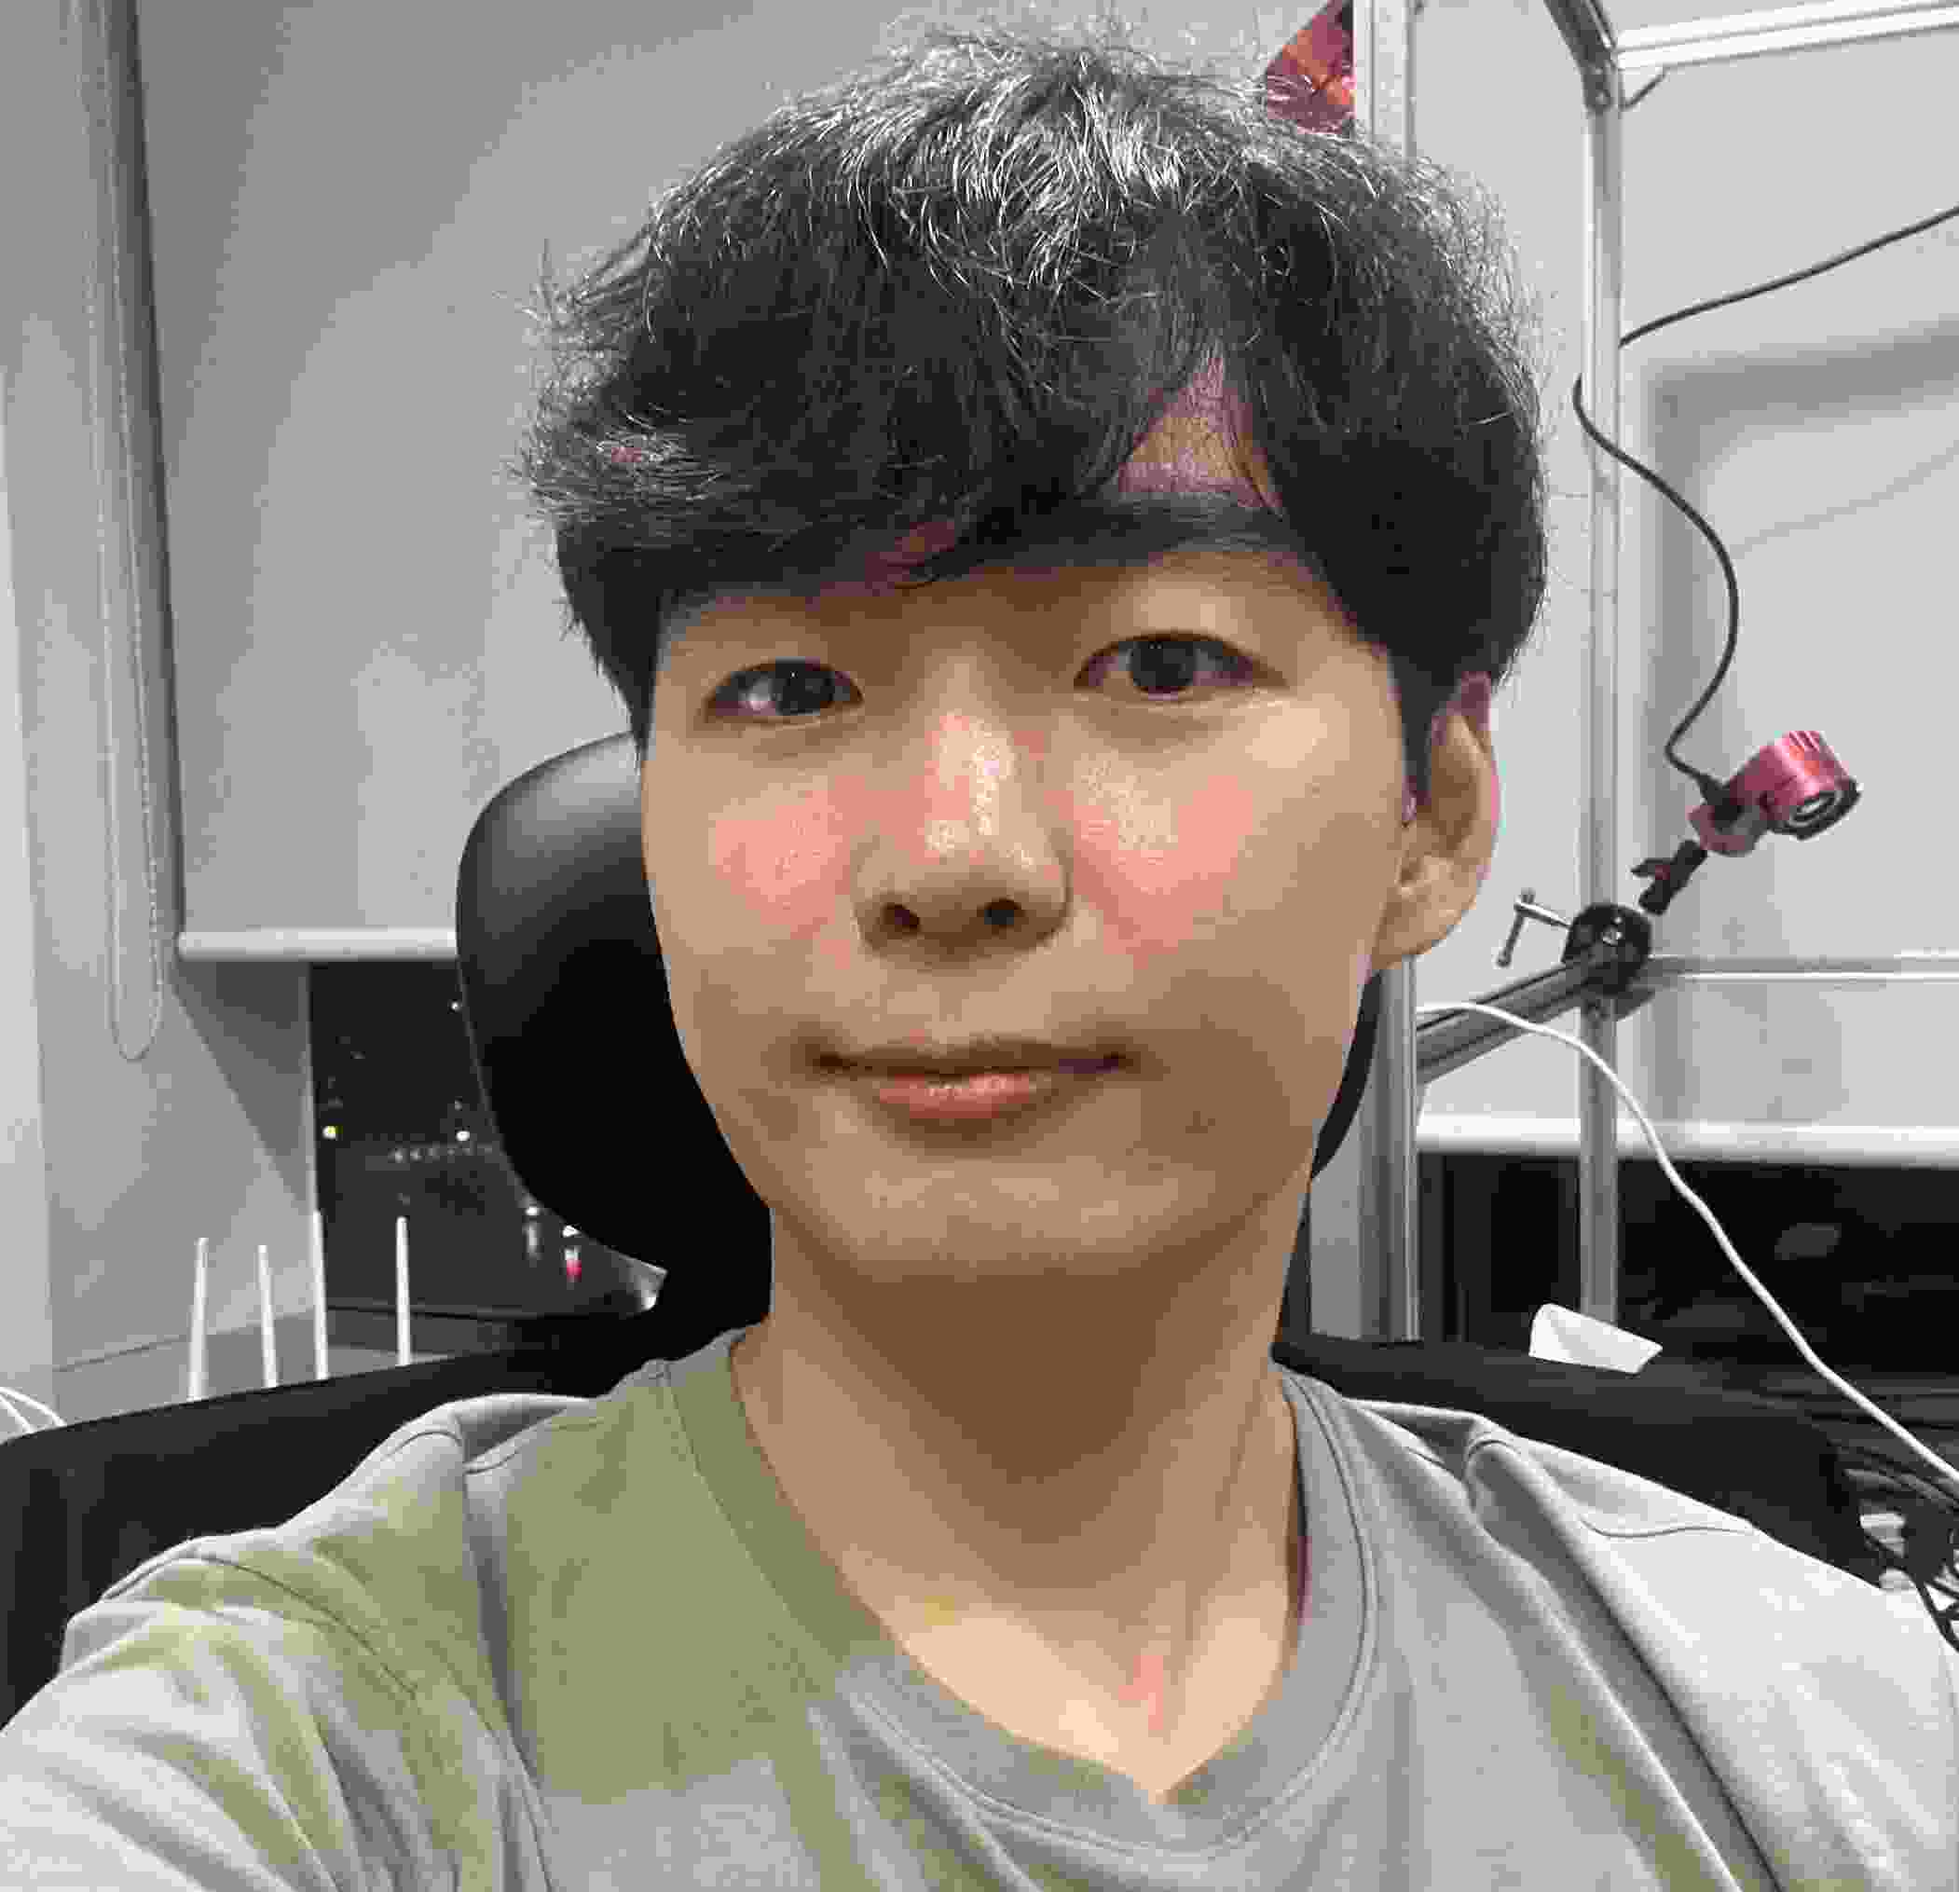
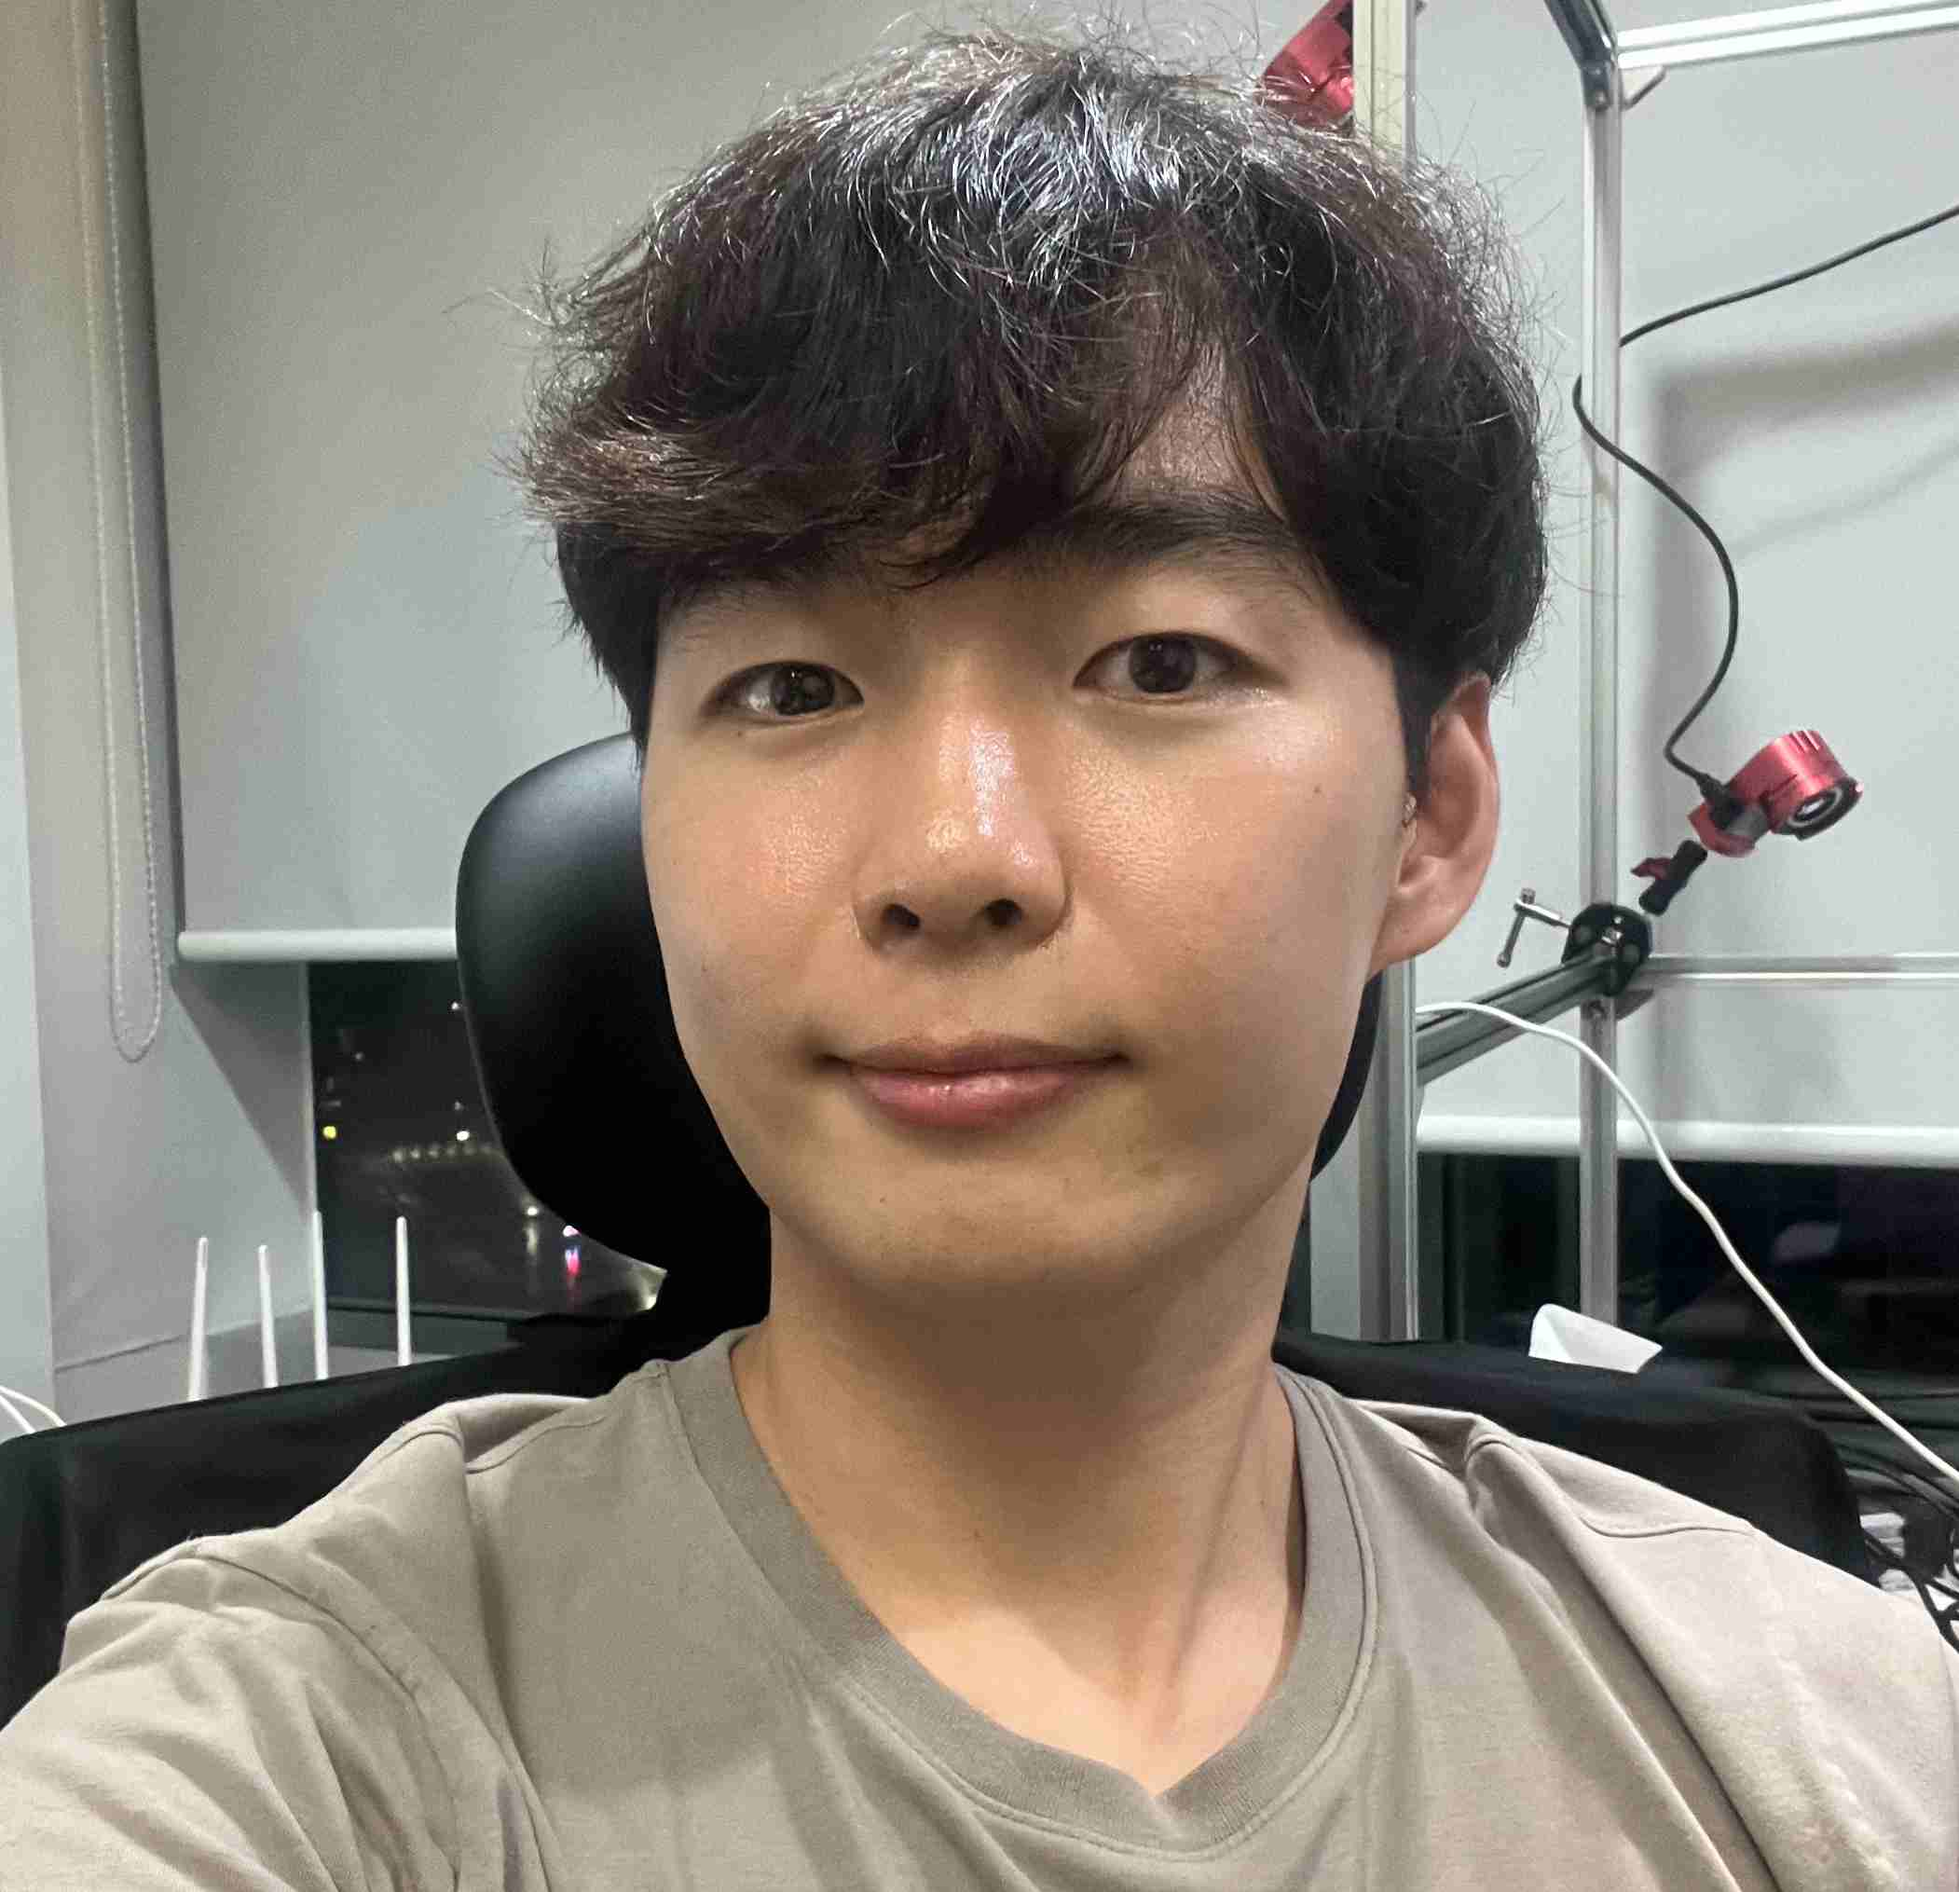
u

diff --git a/img/main.py b/img/main.py
@@ -8,7 +8,7 @@ output_dir = "."
 # Make sure the output directory exists
 os.makedirs(output_dir, exist_ok=True)
 
-filename = "profileImage.png"
+filename = "profile2.png"
 
 # Open the image
 img_path = os.path.join(input_dir, filename)
@@ -16,6 +16,6 @@ img = Image.open(img_path).convert("RGB")  # convert to RGB to save as JPEG
 
 jpg_path = os.path.join(output_dir, f"profileImage2.jpg")
 # Save as JPEG
-img.save(jpg_path, "JPEG", quality=5)
+img.save(jpg_path, "JPEG", quality=80)
 
 print("✅ All PNGs converted to JPGs.")
